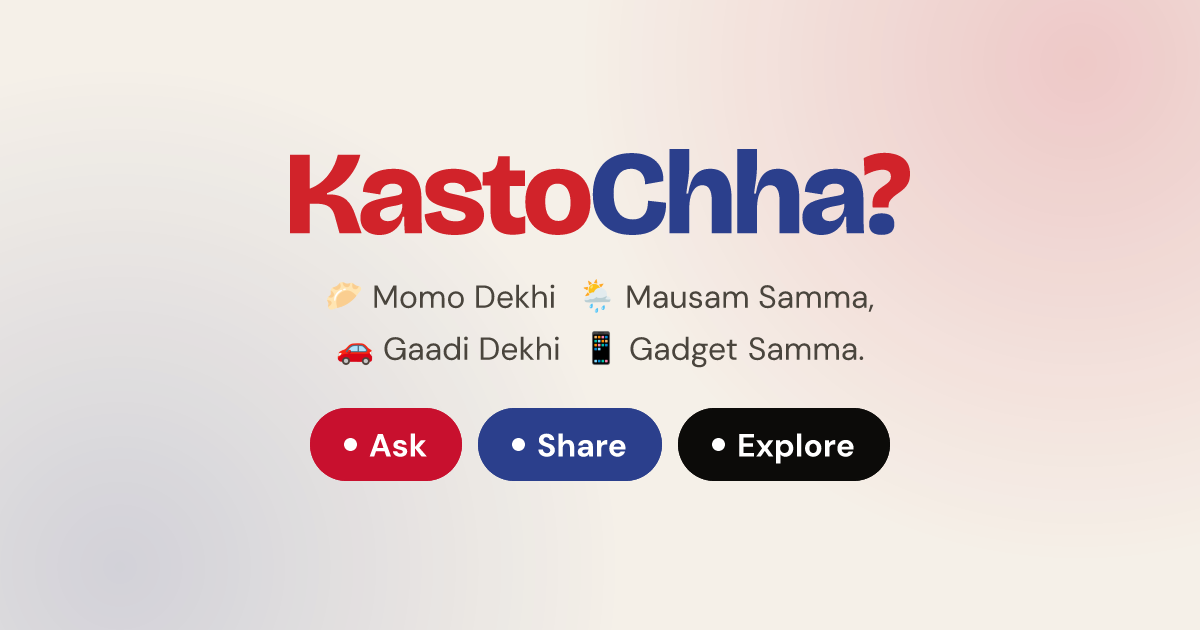
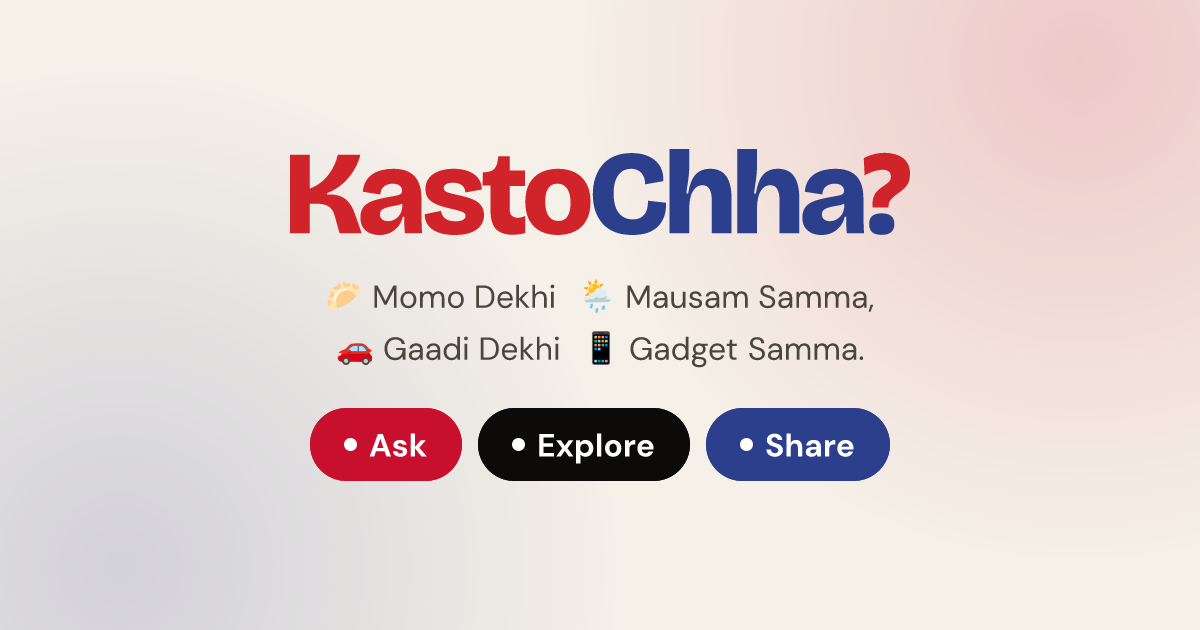
Share cards: Trending description, Discussion and Question invitations, homepage pill order, battle picture diagnostics

Changed region(s): [[0.4008, 0.6333, 0.74, 0.7841]]

diff --git a/lib/ogImages.js b/lib/ogImages.js
@@ -1,8 +1,15 @@
-// Pictures for the Battle share card. They arrive as addresses in the card's
-// URL, which anyone can type, so nothing is fetched unless it points at this
-// site's own Supabase public storage. The image engine can't read WebP, so only
-// JPEG and PNG are used; anything else, or any failure, returns null and the
-// card falls back to the battle's colour, as the Battle page itself does.
+// Pictures for the Battle share card. They arrive as addresses in the card's URL,
+// which anyone can type, so nothing is fetched unless it follows the same rules the
+// rest of the site applies to images:
+//   - a path on this site ("/images/x.jpg"), or
+//   - https on this project's Supabase storage, or on a host the site already
+//     approves for images (the OPTIMIZED_IMAGE_HOSTS list from next.config.js).
+// The image engine can draw JPEG, PNG and GIF; WebP, AVIF and TIFF crash it, so
+// those are refused rather than attempted.
+//
+// Every decision comes back with a short reason, and the card reports both sides'
+// reasons in an X-Card-Pictures header. A picture that isn't used therefore says
+// why, instead of quietly turning into the battle's colour.
 
 import { toBase64 } from "./ogAssets";
 
@@ -18,36 +25,76 @@ export function supabaseOrigin() {
   }
 }
 
-export function allowedImageUrl(raw, origin = supabaseOrigin()) {
-  if (!raw || !origin) return null;
-  try {
-    const url = new URL(raw);
-    if (url.protocol !== "https:" || url.origin !== origin) return null;
-    if (!url.pathname.startsWith("/storage/v1/object/public/")) return null;
-    return url.toString();
-  } catch {
-    return null;
+function approvedHosts() {
+  const hosts = new Set();
+  const supabase = supabaseOrigin();
+  if (supabase) hosts.add(new URL(supabase).hostname.toLowerCase());
+  for (const entry of (process.env.OPTIMIZED_IMAGE_HOSTS || "").split(",")) {
+    const host = entry.trim().toLowerCase();
+    if (host) hosts.add(host);
   }
+  return hosts;
+}
+
+// -> { url } to fetch, or { reason } explaining the refusal.
+export function resolveBattlePicture(raw, siteOrigin) {
+  const text = String(raw ?? "").trim();
+  if (!text) return { reason: "none" };
+  if (text.startsWith("/") && !text.startsWith("//")) {
+    // Our own file, e.g. /battle-images/x.jpg.
+    try {
+      return siteOrigin ? { url: new URL(text, siteOrigin).toString() } : { reason: "no-site-origin" };
+    } catch {
+      return { reason: "invalid-address" };
+    }
+  }
+  let url;
+  try {
+    url = new URL(text);
+  } catch {
+    return { reason: "invalid-address" };
+  }
+  if (url.protocol !== "https:") return { reason: "not-https" };
+  const hosts = approvedHosts();
+  if (hosts.size === 0) return { reason: "no-approved-hosts" };
+  if (!hosts.has(url.hostname.toLowerCase())) return { reason: "host-not-approved" };
+  const isSupabase = supabaseOrigin() && url.origin === supabaseOrigin();
+  if (isSupabase && !url.pathname.startsWith("/storage/v1/")) return { reason: "path-not-storage" };
+  return { url: url.toString() };
 }
 
 export function sniffImageType(bytes) {
   if (bytes.length > 8 && bytes[0] === 0x89 && bytes[1] === 0x50 && bytes[2] === 0x4e && bytes[3] === 0x47) return "image/png";
   if (bytes.length > 3 && bytes[0] === 0xff && bytes[1] === 0xd8 && bytes[2] === 0xff) return "image/jpeg";
+  if (bytes.length > 6 && bytes[0] === 0x47 && bytes[1] === 0x49 && bytes[2] === 0x46 && bytes[3] === 0x38) return "image/gif";
   return null;
 }
 
-export async function loadBattleImage(raw) {
-  const url = allowedImageUrl(raw);
-  if (!url) return null;
+// Names a format we refuse, so the reason says "webp" rather than just "unsupported".
+function describeOther(bytes) {
+  const ascii = (from, to) => String.fromCharCode(...bytes.subarray(from, to));
+  if (bytes.length > 12 && ascii(0, 4) === "RIFF" && ascii(8, 12) === "WEBP") return "webp";
+  if (bytes.length > 12 && ascii(4, 8) === "ftyp" && /avif|avis/.test(ascii(8, 16))) return "avif";
+  if (bytes.length > 4 && (ascii(0, 2) === "II" || ascii(0, 2) === "MM")) return "tiff";
+  if (bytes.length > 2 && ascii(0, 2) === "BM") return "bmp";
+  return "unknown";
+}
+
+// -> { image: a data: URI or null, reason: "ok" or why not }
+export async function loadBattleImage(raw, siteOrigin) {
+  const target = resolveBattlePicture(raw, siteOrigin);
+  if (!target.url) return { image: null, reason: target.reason };
   try {
-    const res = await fetch(url, { signal: AbortSignal.timeout(FETCH_TIMEOUT_MS), redirect: "error" });
-    if (!res.ok) return null;
-    if (Number(res.headers.get("content-length") || 0) > MAX_BYTES) return null;
+    const res = await fetch(target.url, { signal: AbortSignal.timeout(FETCH_TIMEOUT_MS), redirect: "error" });
+    if (!res.ok) return { image: null, reason: `fetch-failed:${res.status}` };
+    if (Number(res.headers.get("content-length") || 0) > MAX_BYTES) return { image: null, reason: "too-large" };
     const buffer = await res.arrayBuffer();
-    if (buffer.byteLength > MAX_BYTES) return null;
-    const type = sniffImageType(new Uint8Array(buffer));
-    return type ? `data:${type};base64,${toBase64(buffer)}` : null;
-  } catch {
-    return null;
+    if (buffer.byteLength > MAX_BYTES) return { image: null, reason: "too-large" };
+    const bytes = new Uint8Array(buffer);
+    const type = sniffImageType(bytes);
+    if (!type) return { image: null, reason: `unsupported-format:${describeOther(bytes)}` };
+    return { image: `data:${type};base64,${toBase64(buffer)}`, reason: "ok" };
+  } catch (error) {
+    return { image: null, reason: error?.name === "TimeoutError" ? "fetch-timeout" : "fetch-error" };
   }
 }

diff --git a/lib/ogCards.js b/lib/ogCards.js
@@ -14,7 +14,6 @@ import { EMOJI } from "./ogEmoji";
 
 const PAPER = "#F5F0E8";
 const INK = "#0C0B09";
-const MUTED = "#6F685C";
 const RED = "#C8102E";
 const BLUE = "#2B3F8C";
 
@@ -125,12 +124,12 @@ function watermark({ glyph, size, top, color }) {
   };
 }
 
-function pillsRow(labels) {
+function pillsRow(labels, top = 30) {
   const text = resolveLabels(labels);
   const size = pillFontSize(Math.max(...text.map((t) => t.length)));
   return h(
     "div",
-    { gap: "18px", marginTop: "30px", width: "1056px" },
+    { gap: "18px", marginTop: `${top}px`, width: "1056px" },
     text.map((label, i) =>
       h(
         "div",
@@ -196,7 +195,7 @@ function card(o) {
           : null,
         h(
           "div",
-          { color: INK, fontSize: `${titleFontSize(title.length)}px`, fontWeight: 700, lineHeight: 1.05, letterSpacing: "-2px" },
+          { color: INK, fontSize: `${Math.min(titleFontSize(title.length), o.titleCap || 999)}px`, fontWeight: 700, lineHeight: 1.05, letterSpacing: "-2px" },
           title
         ),
         o.below
@@ -206,7 +205,28 @@ function card(o) {
   );
 }
 
-export function buildTrendingCard({ title, kicker, stat, labels, logo, fontFamily = "sans-serif" }) {
+// Devanagari (Nepali script) can't be drawn properly with the card's font, so text
+// written in it is left off the picture rather than drawn as gaps.
+export function hasDevanagari(text) {
+  return /[\u0900-\u097F]/.test(String(text ?? ""));
+}
+
+export const DISCUSSION_LINE = "Got Something to Say? Join the Discussion!";
+export const QUESTION_LINE = "Got an Answer? Share It!";
+const DESCRIPTION_MAX_CHARS = 62;
+
+// The topic's own description, as its page shows it under the title.
+function descriptionLine(text) {
+  return h("div", { color: "#6F685C", fontSize: "30px", lineHeight: 1.3, marginTop: "18px", whiteSpace: "nowrap" }, text);
+}
+
+// The invitation on Discussion and Question cards, in the card's own colour.
+function inviteLine(text, color) {
+  return h("div", { color, fontSize: "32px", fontWeight: 700, lineHeight: 1.3, marginTop: "20px", whiteSpace: "nowrap" }, text);
+}
+
+export function buildTrendingCard({ title, kicker, stat, labels, logo, description, fontFamily = "sans-serif" }) {
+  const note = description && !hasDevanagari(description) ? clipText(description, DESCRIPTION_MAX_CHARS) : "";
   return card({
     fontFamily,
     logo,
@@ -220,7 +240,9 @@ export function buildTrendingCard({ title, kicker, stat, labels, logo, fontFamil
     bgImage:
       "radial-gradient(circle at 88% 12%, rgba(200,16,46,0.20) 0%, rgba(200,16,46,0) 46%), radial-gradient(rgba(20,16,14,0.10) 2.5px, rgba(20,16,14,0) 2.5px)",
     watermark: { glyph: "question", size: 600, top: 10, color: "rgba(200,16,46,0.11)" },
-    below: pillsRow(labels),
+    // With a description the title steps down a size to make room for it.
+    titleCap: note ? 62 : undefined,
+    below: h("div", { flexDirection: "column" }, note ? descriptionLine(note) : null, pillsRow(labels, note ? 24 : 30)),
     footer: null
   });
 }
@@ -238,7 +260,7 @@ const DISCUSSION_TONE = {
 // Discussion card at a glance.
 export const QUESTION_TONE = { accent: "#6B3FA0", tint: "107,63,160", bg: "#F2EDF8", glow: "rgba(107,63,160,0.22)", dots: "rgba(107,63,160,0.11)", watermark: "rgba(107,63,160,0.13)" };
 
-export function buildDiscussionCard({ title, kicker, subtitle, stat, logo, question = false, fontFamily = "sans-serif" }) {
+export function buildDiscussionCard({ title, kicker, stat, logo, question = false, fontFamily = "sans-serif" }) {
   const t = question ? QUESTION_TONE : DISCUSSION_TONE;
   return card({
     fontFamily,
@@ -253,7 +275,9 @@ export function buildDiscussionCard({ title, kicker, subtitle, stat, logo, quest
     bgImage: `radial-gradient(circle at 12% 88%, ${t.glow} 0%, rgba(0,0,0,0) 48%), radial-gradient(${t.dots} 2.5px, rgba(0,0,0,0) 2.5px)`,
     // A question thread gets a "?" rather than the quote mark, in its own colour.
     watermark: question ? { glyph: "question", size: 600, top: 10, color: t.watermark } : { glyph: "quote", size: 720, top: 40, color: t.watermark },
-    below: subtitle ? h("div", { color: MUTED, fontSize: "30px", lineHeight: 1.4, marginTop: "24px" }, subtitle) : null,
+    // No summary sentence on the image (Facebook, LinkedIn and Reddit print the page's
+    // description under the picture themselves): a fixed invitation instead.
+    below: inviteLine(question ? QUESTION_LINE : DISCUSSION_LINE, t.accent),
     footer: null
   });
 }
@@ -374,8 +398,8 @@ function homeTagline() {
 export function buildHomeCard({ logo, fontFamily = "sans-serif" }) {
   const pills = [
     ["Ask", RED],
-    ["Share", BLUE],
-    ["Explore", INK]
+    ["Explore", INK],
+    ["Share", BLUE]
   ];
   const pill = ([label, color]) =>
     h(

diff --git a/lib/ogResponse.js b/lib/ogResponse.js
@@ -39,18 +39,20 @@ export async function renderCard(request) {
 
   if (type === "battle") {
     const [titleA, titleB] = namesFromTitle(title);
-    const [fonts, logo, imageA, imageB] = await Promise.all([loadOgFonts(origin), loadOgLogo(origin), loadBattleImage(param("ia")), loadBattleImage(param("ib"))]);
+    const [fonts, logo, pictureA, pictureB] = await Promise.all([loadOgFonts(origin), loadOgLogo(origin), loadBattleImage(param("ia"), origin), loadBattleImage(param("ib"), origin)]);
     const color = (key) => (HEX_COLOR.test(param(key)) ? param(key) : null);
     const element = buildBattleCard({
-      left: { name: clamp(param("a") || titleA || "Side A", 24), image: imageA, color: color("ca") },
-      right: { name: clamp(param("b") || titleB || "Side B", 24), image: imageB, color: color("cb") },
+      left: { name: clamp(param("a") || titleA || "Side A", 24), image: pictureA.image, color: color("ca") },
+      right: { name: clamp(param("b") || titleB || "Side B", 24), image: pictureB.image, color: color("cb") },
       votes: { left: param("va"), right: param("vb") },
       // Only a plain "N votes" is accepted; an old link's "62% X · 38% Y" is ignored.
       stat: VOTES_PILL.test(param("stat")) ? param("stat") : "",
       logo,
       fontFamily: fonts ? "DM Sans" : "sans-serif"
     });
-    return new ImageResponse(element, { width: 1200, height: 630, ...(fonts ? { fonts } : {}) });
+    // Says, for each side, whether its picture was used or why not (see lib/ogImages.js).
+    const headers = { "X-Card-Pictures": `left=${pictureA.reason}; right=${pictureB.reason}` };
+    return new ImageResponse(element, { width: 1200, height: 630, headers, ...(fonts ? { fonts } : {}) });
   }
 
   const input = {
@@ -63,8 +65,8 @@ export async function renderCard(request) {
   const fontFamily = fonts ? "DM Sans" : "sans-serif";
   const element =
     type === "trending"
-      ? buildTrendingCard({ ...input, logo, fontFamily, labels: ["l1", "l2", "l3"].map((key) => clamp(param(key), 40)) })
-      : buildDiscussionCard({ ...input, logo, fontFamily, subtitle: clamp(param("subtitle"), 160), question: param("kind") === "question" });
+      ? buildTrendingCard({ ...input, logo, fontFamily, description: clamp(param("subtitle"), 160), labels: ["l1", "l2", "l3"].map((key) => clamp(param(key), 40)) })
+      : buildDiscussionCard({ ...input, logo, fontFamily, question: param("kind") === "question" });
 
   return new ImageResponse(element, { width: 1200, height: 630, ...(fonts ? { fonts } : {}) });
 }

diff --git a/lib/ogFinalize.js b/lib/ogFinalize.js
@@ -13,14 +13,16 @@ export async function finalizeImage(response) {
   if (!response || !response.ok) throw new Error(`card render answered ${response?.status}`);
   const body = await response.arrayBuffer();
   if (body.byteLength === 0) throw new Error("card render produced an empty image");
-  return new Response(body, {
-    status: 200,
-    headers: {
-      "Content-Type": "image/png",
-      "Content-Length": String(body.byteLength),
-      "Cache-Control": CARD_CACHE_CONTROL
-    }
+  const headers = {
+    "Content-Type": "image/png",
+    "Content-Length": String(body.byteLength),
+    "Cache-Control": CARD_CACHE_CONTROL
+  };
+  // Diagnostics the card added about itself (e.g. which pictures were used).
+  response.headers.forEach((value, name) => {
+    if (name.toLowerCase().startsWith("x-card-")) headers[name] = value;
   });
+  return new Response(body, { status: 200, headers });
 }
 
 // The static default (public/og-home.png), fetched from this site; a short cache so
